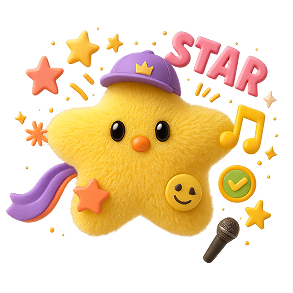
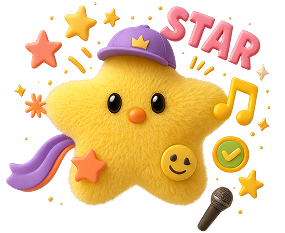
온보딩 수정

diff --git a/2nd fandom-app/src/pages/Onboarding/Nickname.css b/2nd fandom-app/src/pages/Onboarding/Nickname.css
@@ -1,8 +1,9 @@
 .nickname-container { display: flex; flex-direction: column; align-items: center;}
-.nickname-container h2 {font-size: 20px; margin-bottom: 8px; font-weight: 600;}
-.nickname-container h2 span {font-size: 28px; color: #F3B643;}
-.nickname-img { margin: 30px 0; width: 55%;}
-.sub2 { font-size: 16px; color: #666;}
+.nickname-container h2 {font-size: 20px; font-weight: 600; letter-spacing: -1px; margin-bottom: 10px;}
+.nickname-container h2 span {display: inline-block; width: 100px;}
+.nickname-container h2 span img {width: 100%; height: auto;}
+.sub2 { font-size: 16px; color: #666; margin-bottom: 50px;}
+.nickname-img {margin-bottom: 50px;}
 .input-box { position: relative; width: 90%;}
 .input-box input { width: 100%; padding: 18px; border: none; box-shadow: 2px 2px 15px rgba(0, 0, 0, 0.15); border-radius: 12px; font-size: 16px; color: #797979; font-weight: 500; letter-spacing: -0.5px;}
 .input-box input:focus {
@@ -20,7 +21,7 @@
     justify-content: space-between;
     align-items: center;
     margin-top: 12px;
-    margin-bottom: 45px;
+    margin-bottom: 60px;
   }
 
 

diff --git a/2nd fandom-app/src/pages/Onboarding/SelectArtist.css b/2nd fandom-app/src/pages/Onboarding/SelectArtist.css
@@ -4,7 +4,7 @@
 .artist-select-container > p {font-size: 14px; color: #797979; margin-bottom: 25px;}
 .gradient-border-wrapper2 {
   position: relative;
-  width: 90%; margin-bottom: 35px;
+  width: 90%; margin-bottom: 30px;
   background: linear-gradient(90deg, #6C53FF 0%, #66DEC2 50%, #FFCC00 100%);
   padding: 1px; /* border처럼 보이게 하는 부분 */
   border-radius: 999px;
@@ -27,7 +27,7 @@
   font-size: 16px;
 }
 
-.scroll-wrapper2 {display: flex;  flex-direction: column;  overflow-x: auto; -webkit-overflow-scrolling: touch; scroll-snap-type: x mandatory; scrollbar-width: none; margin-bottom: 40px;}
+.scroll-wrapper2 {display: flex;  flex-direction: column;  overflow-x: auto; -webkit-overflow-scrolling: touch; scroll-snap-type: x mandatory; scrollbar-width: none; margin-bottom: 30px;}
 
 .scroll-wrapper::-webkit-scrollbar:horizontal {
   display: none;

diff --git a/2nd fandom-app/src/pages/Onboarding/Nickname.jsx b/2nd fandom-app/src/pages/Onboarding/Nickname.jsx
@@ -7,6 +7,7 @@ import YellowButton from '../../components/YellowButton';
 import './Nickname.css';
 import nickname_img from '../../assets/onboarding/nickname_img.png';
 import X_button from '../../assets/onboarding/X_button.png'
+import nuvie_logo from '../../assets/onboarding/mainLogo.png'
 
 const NicknamePage = () => {
   const [input, setInput] = useState('');
@@ -28,9 +29,9 @@ const NicknamePage = () => {
       <BackButton />
       </header>
       <div className="nickname-container">
-        <h2><span>nuvie</span> 에 오신 걸 환영해요!</h2>
+        <h2><span><img src={nuvie_logo} alt="" /></span></h2>
       <p className="sub2">닉네임을 만들어 주세요.</p>
-      <img src={nickname_img} alt="welcome character" className="nickname-img" />
+      <p className="nickname-img"><img src={nickname_img} /></p>
 
       
 

diff --git a/2nd fandom-app/src/pages/Onboarding/Welcome.css b/2nd fandom-app/src/pages/Onboarding/Welcome.css
@@ -3,7 +3,7 @@
 .welcome-container .sub {font-size: 16px; margin-bottom: 60px;}
 .level-text { font-size: 16px; color: #F3B643; font-weight: 500; margin-bottom: 47px; }
 .image-box {width: 267px; padding: 4px; border-radius: 8px; margin-bottom: 20px; }
-.image-box img {width: 93%; height: auto;  object-fit: cover; }
+.image-box img {width: 100%; height: auto;  object-fit: cover; }
 .sub { font-size: 14px; color: #797979; font-weight: 500; margin-bottom: 40px; text-align: center; }
 
 .welcome-icon {display: inline-block; width: 30px; height: auto;}

diff --git a/2nd fandom-app/src/components/Chatbot.css b/2nd fandom-app/src/components/Chatbot.css
@@ -1,4 +1,4 @@
-.chatbot-wrapper { position: fixed; bottom: 100px; right: 15px; z-index: 9999; margin: 0 0 0 15px;}
+.chatbot-wrapper { position: fixed; bottom: 100px; right: 15px; z-index: 9999; margin: 0 0 0 35px;}
 .chatbot-floating-btn { width: 60px; height: 60px; border-radius: 50%; border: none; background: white; box-shadow: 0 4px 12px rgba(0,0,0,0.2); cursor: pointer; padding: 0; }
 .chatbot-floating-btn img { width: 100%; height: 100%; object-fit: contain; }
 

diff --git a/2nd fandom-app/src/components/Backbutton.css b/2nd fandom-app/src/components/Backbutton.css
@@ -1,4 +1,4 @@
-.ButtonContainer {display: flex; position: relative; align-items: center; height: 50px; margin-bottom: 20px;}
+.ButtonContainer {display: flex; position: relative; align-items: center; height: 50px;}
 .header-title {position: absolute; left: 50%; transform: translateX(-50%); font-size: 22px;}
 .ButtonContainer button { border: none; background: none; font-size: 20px; cursor: pointer; }
 

diff --git a/2nd fandom-app/src/pages/Onboarding/Splash.css b/2nd fandom-app/src/pages/Onboarding/Splash.css
@@ -12,7 +12,7 @@
   
   .splash-text {
     position: absolute;
-    bottom: 70%;                /* 이미지 아래쪽에서 10% 위쪽 */
+    bottom: 71%;                /* 이미지 아래쪽에서 10% 위쪽 */
     left: 50%;
     transform: translateX(-50%);
     color: white;               /* 대비를 위해 흰색, 필요하면 그림자 추가 */
